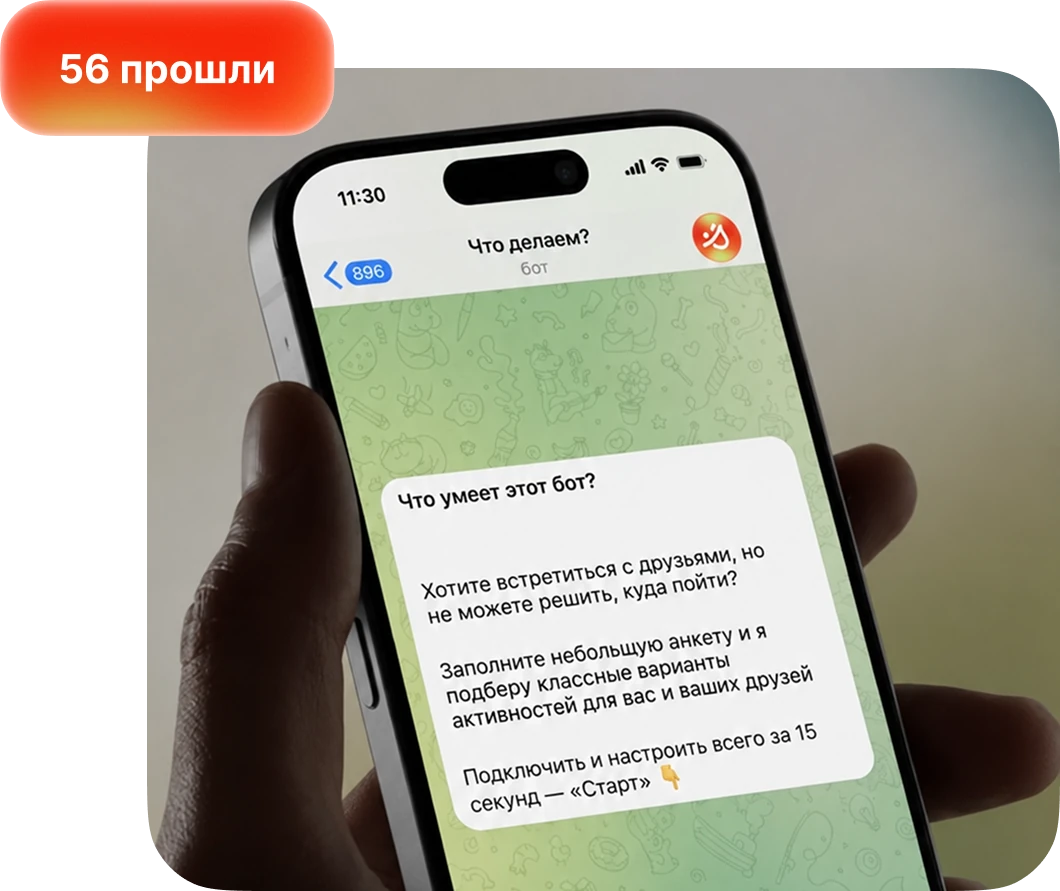
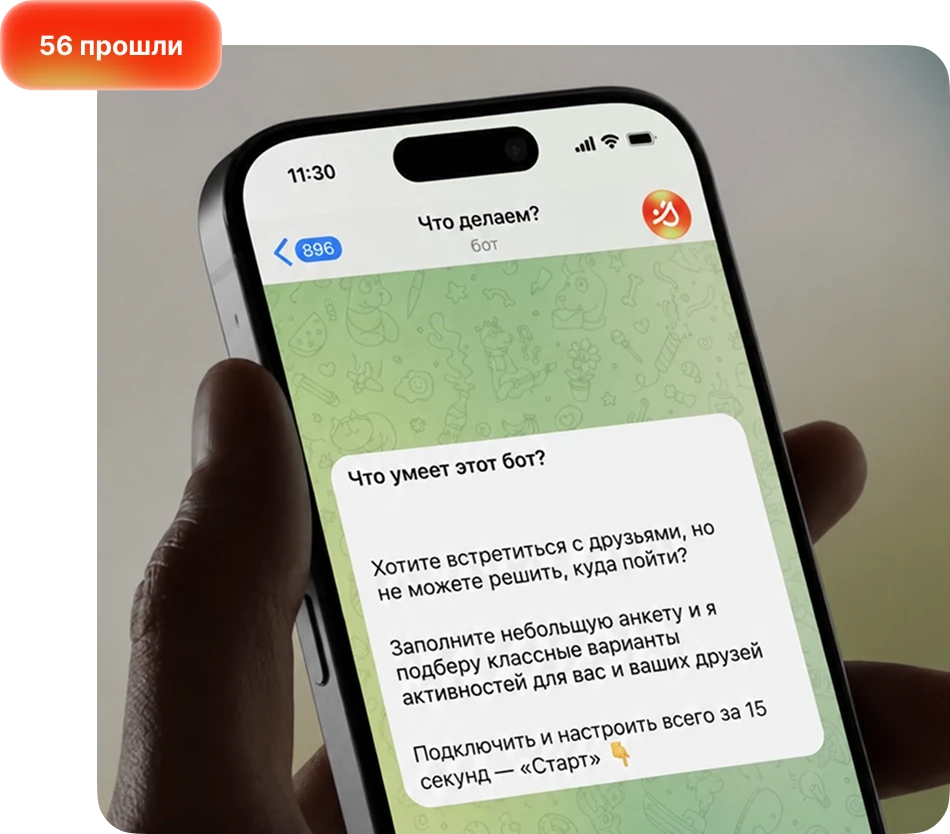
ЧД проверка спроса: снова обновлена фотка бота (?v=6)

diff --git a/index.html b/index.html
@@ -1641,7 +1641,7 @@ footer{padding:28px 56px 44px;display:flex;justify-content:space-between;align-i
       </div>
     </div>
     <div class="rf-demand-media">
-      <img src="assets/chd-demand-bot.webp?v=5" alt="Telegram-бот «Что делаем?»" loading="lazy">
+      <img src="assets/chd-demand-bot.webp?v=6" alt="Telegram-бот «Что делаем?»" loading="lazy">
     </div>
   </div>
 </div>
